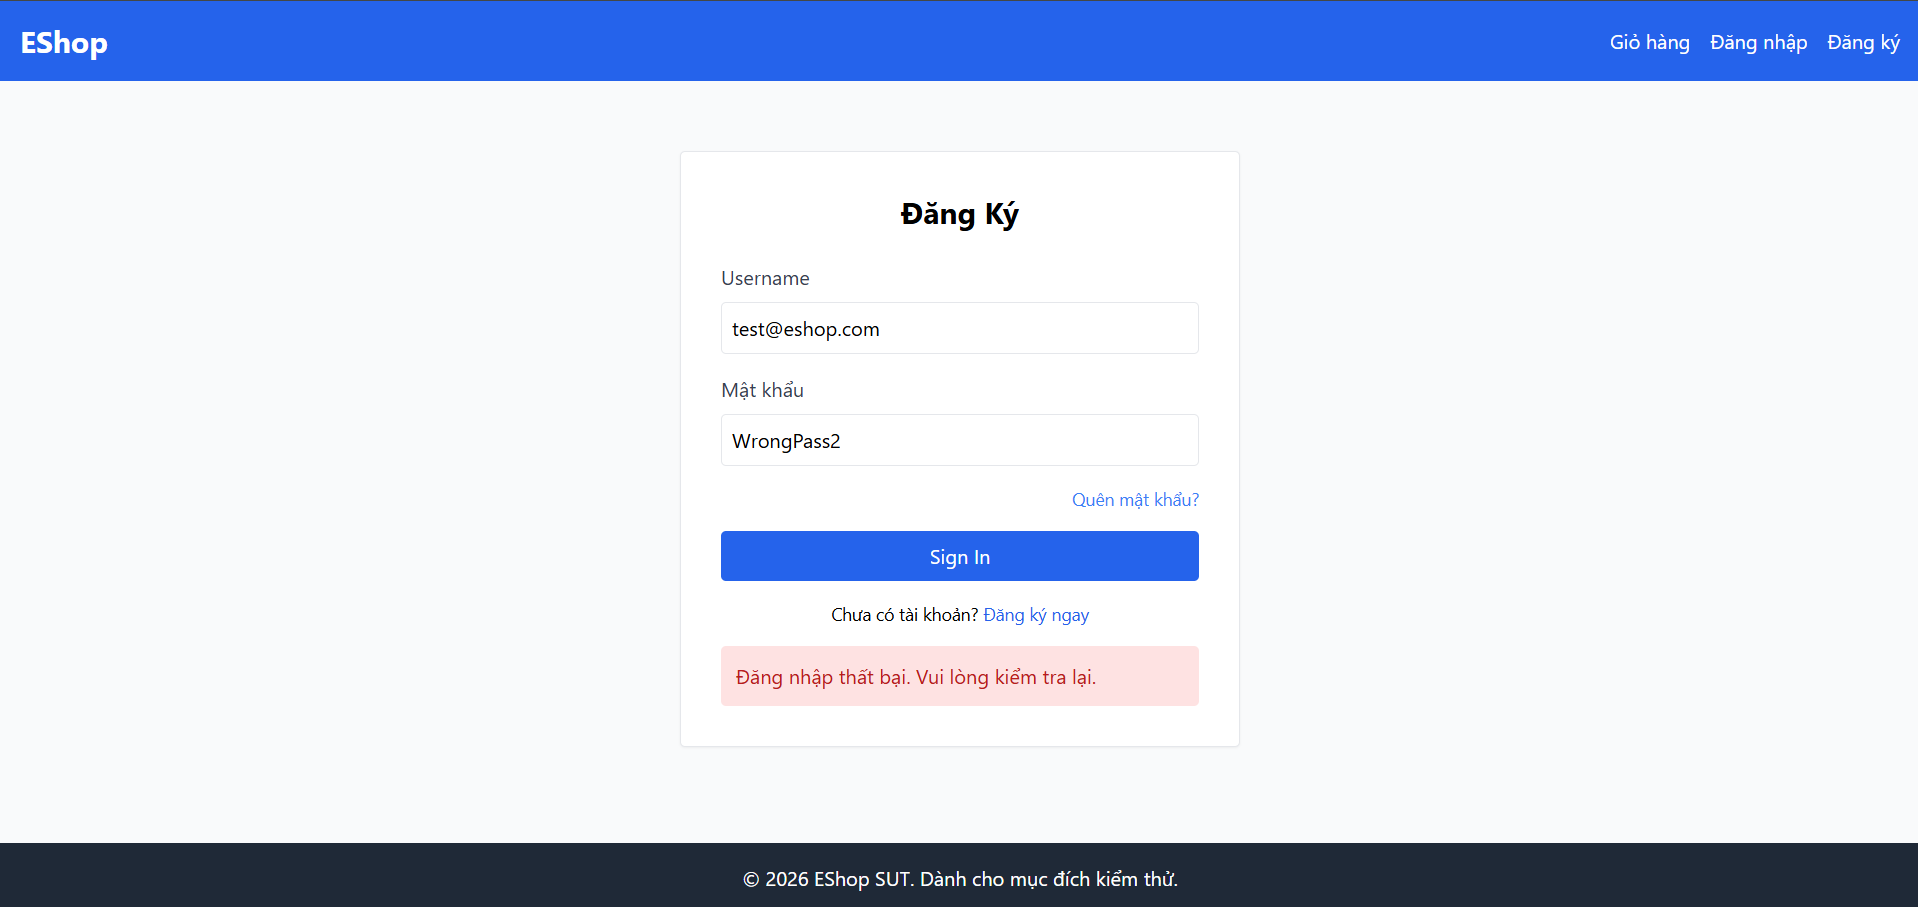
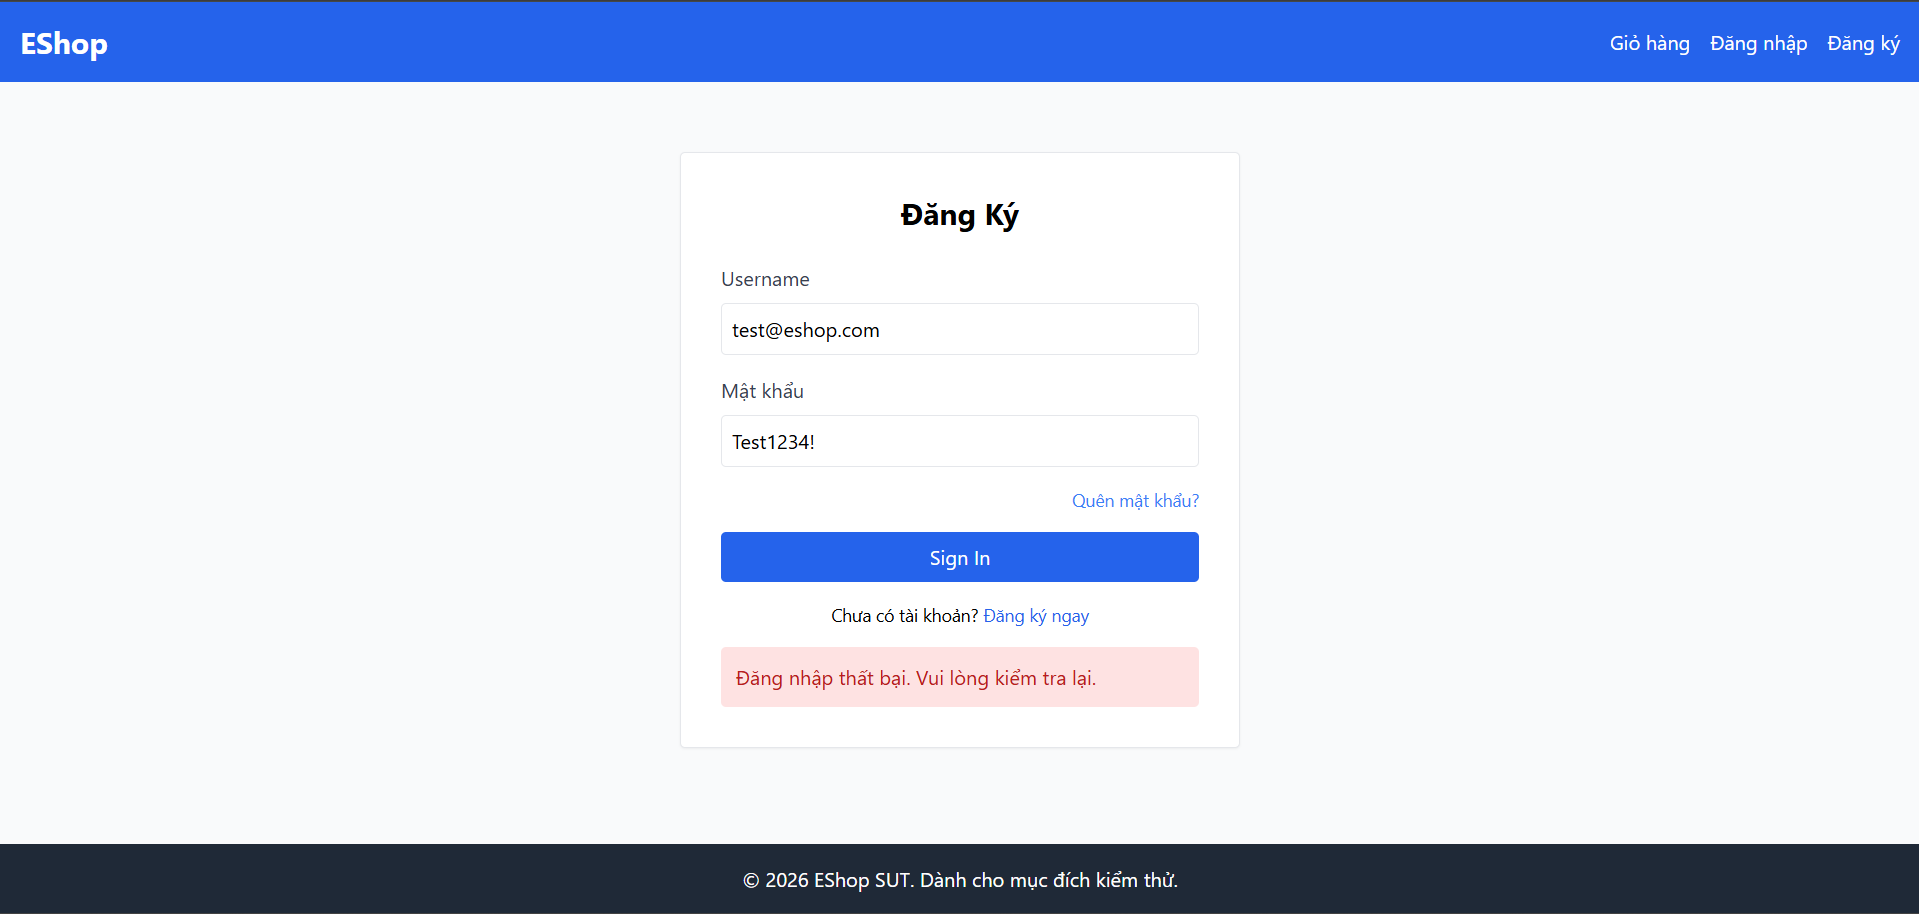
update: optimize fr-02 script test

diff --git a/reports/html_report/index.html b/reports/html_report/index.html
@@ -46,4 +46,4 @@ Error generating stack: `+e.message+`
     <div id='root'></div>
   </body>
 </html>
[2 lines of base64/hex data omitted]

diff --git a/tests/fr02_login.spec.ts b/tests/fr02_login.spec.ts
@@ -27,7 +27,6 @@ test.describe('FR-02: Đăng nhập & Khóa tài khoản (Refined Step-by-Step S
   const tc02 = loginTestData.find((tc) => tc.id === 'TC_FR-02_02');
   if (tc02) {
     test(`[${tc02.id}] ${tc02.name} (${tc02.category})`, async ({ page }) => {
-      // Tăng timeout cho test case chờ 30 giây thời gian phạt
       test.setTimeout(45000);
 
       // 1. Thực hiện sai 3 lần liên tiếp để kích hoạt khóa tài khoản
@@ -48,26 +47,25 @@ test.describe('FR-02: Đăng nhập & Khóa tài khoản (Refined Step-by-Step S
     });
   }
 
-  // TC_FR-02_03: Bỏ trống Email (Bug 1: Thiếu required trên Email)
+  // TC_FR-02_03: Bỏ trống Email
   const tc03 = loginTestData.find((tc) => tc.id === 'TC_FR-02_03');
   if (tc03) {
     test(`[${tc03.id}] ${tc03.name} (${tc03.category})`, async ({ page }) => {
       await loginPage.fillPassword(tc03.password);
       await loginPage.submit();
 
-      // Giữ màn hình 1.2s để video recording và trace ghi nhận rõ ràng tooltip HTML5
       await page.waitForTimeout(1200);
 
-      // Assertion nghiêm ngặt: Ô Email bắt buộc phải có validate HTML5 chặn submit (Bug 1)
+      // Assertion: Ô Email bắt buộc phải có validate HTML5 chặn submit
       const isValid = await loginPage.checkValidity('email');
       const validationMessage = await loginPage.getValidationMessage('email');
 
-      expect(isValid, 'Ô Email phải bị chặn không hợp lệ khi bỏ trống (Bug 1)').toBe(false);
+      expect(isValid, 'Ô Email phải bị chặn không hợp lệ khi bỏ trống').toBe(false);
       expect(validationMessage.length, 'Thông báo lỗi HTML5 phải hiển thị').toBeGreaterThan(0);
     });
   }
 
-  // TC_FR-02_04: Email sai định dạng (Bug 4: Thiếu type="email" trên ô Email)
+  // TC_FR-02_04: Email sai định dạng
   const tc04 = loginTestData.find((tc) => tc.id === 'TC_FR-02_04');
   if (tc04) {
     test(`[${tc04.id}] ${tc04.name} (${tc04.category})`, async ({ page }) => {
@@ -75,51 +73,49 @@ test.describe('FR-02: Đăng nhập & Khóa tài khoản (Refined Step-by-Step S
       await loginPage.fillPassword(tc04.password);
       await loginPage.submit();
 
-      // Giữ màn hình 1.2s để video recording ghi nhận rõ ràng
       await page.waitForTimeout(1200);
 
-      // Assertion nghiêm ngặt: Ô Email bắt buộc phải có type="email" chặn định dạng sai (Bug 4)
+      // Assertion: Ô Email bắt buộc phải có type="email" chặn định dạng sai
       const isValid = await loginPage.checkValidity('email');
-      expect(isValid, 'Ô Email phải bị chặn khi nhập sai định dạng không có @ (Bug 4)').toBe(false);
+      expect(isValid, 'Ô Email phải bị chặn khi nhập sai định dạng không có @').toBe(false);
     });
   }
 
-  // TC_FR-02_05: Bỏ trống Password (Bug 2: Thiếu required trên Mật khẩu)
+  // TC_FR-02_05: Bỏ trống Password
   const tc05 = loginTestData.find((tc) => tc.id === 'TC_FR-02_05');
   if (tc05) {
     test(`[${tc05.id}] ${tc05.name} (${tc05.category})`, async ({ page }) => {
       await loginPage.fillEmail(tc05.email);
       await loginPage.submit();
 
-      // Giữ màn hình 1.2s để video recording ghi nhận rõ ràng
       await page.waitForTimeout(1200);
 
-      // Assertion nghiêm ngặt: Ô Mật khẩu bắt buộc phải có validate HTML5 chặn submit (Bug 2)
+      // Assertion: Ô Mật khẩu bắt buộc phải có validate HTML5 chặn submit
       const isValid = await loginPage.checkValidity('password');
       const validationMessage = await loginPage.getValidationMessage('password');
 
-      expect(isValid, 'Ô Mật khẩu phải bị chặn khi bỏ trống (Bug 2)').toBe(false);
+      expect(isValid, 'Ô Mật khẩu phải bị chặn khi bỏ trống').toBe(false);
       expect(validationMessage.length, 'Thông báo lỗi HTML5 phải hiển thị').toBeGreaterThan(0);
     });
   }
 
-  // TC_FR-02_06: Email chưa đăng ký (Bug 5: Tiết lộ thông tin Email không tồn tại)
+  // TC_FR-02_06: Email chưa đăng ký
   const tc06 = loginTestData.find((tc) => tc.id === 'TC_FR-02_06');
   if (tc06) {
     test(`[${tc06.id}] ${tc06.name} (${tc06.category})`, async ({ page }) => {
       await loginPage.login(tc06.email, tc06.password);
       await page.waitForTimeout(1000);
 
-      // Assertion: Bắt buộc thông báo lỗi phải là thông báo chung bảo mật (Bug 5)
+      // Assertion: Thông báo lỗi phải hiển thị đúng khi email chưa đăng ký
       await expect(loginPage.alertMessage).toBeVisible({ timeout: 5000 });
       const alertText = await loginPage.getAlertText();
-      expect(alertText, 'Thông báo phải là lỗi bảo mật chung, không tiết lộ sự tồn tại của Email (Bug 5)').toBe(
-        'Đăng nhập thất bại, vui lòng kiểm tra lại'
+      expect(alertText, 'Thông báo lỗi phải hiển thị đúng khi email chưa đăng ký').toBe(
+        tc06.expected.message
       );
     });
   }
 
-  // TC_FR-02_07: Sai Password lần 3 kích hoạt khóa (Bug 3: Không khóa tài khoản)
+  // TC_FR-02_07: Sai Password lần 3 kích hoạt khóa
   const tc07 = loginTestData.find((tc) => tc.id === 'TC_FR-02_07');
   if (tc07) {
     test(`[${tc07.id}] ${tc07.name} (${tc07.category})`, async ({ page }) => {
@@ -136,31 +132,29 @@ test.describe('FR-02: Đăng nhập & Khóa tài khoản (Refined Step-by-Step S
       await loginPage.login(tc07.email, 'WrongPass3');
       await page.waitForTimeout(1000);
 
-      // Assertion nghiêm ngặt: Hệ thống BẮT BUỘC phải khóa tài khoản (Bug 3)
+      // Assertion: Hệ thống phải thông báo khóa tài khoản sau 3 lần sai liên tiếp
       await expect(loginPage.alertMessage).toBeVisible({ timeout: 5000 });
       const alertText = await loginPage.getAlertText();
-      expect(alertText, 'Hệ thống phải khóa tài khoản sau 3 lần sai liên tiếp (Bug 3)').toMatch(/tạm khóa|khóa|30s/i);
+      expect(alertText, 'Hệ thống phải thông báo khóa tài khoản sau 3 lần sai liên tiếp').toMatch(/tạm khóa|khóa|30s/i);
     });
   }
 
-  // TC_FR-02_08: Tài khoản đang khóa từ chối đăng nhập dù nhập đúng (Bug 3)
+  // TC_FR-02_08: Tài khoản đang khóa từ chối đăng nhập dù nhập đúng
   const tc08 = loginTestData.find((tc) => tc.id === 'TC_FR-02_08');
   if (tc08) {
     test(`[${tc08.id}] ${tc08.name} (${tc08.category})`, async ({ page }) => {
-      // 1. Thực hiện sai 3 lần liên tiếp để đưa vào trạng thái khóa
+      // 1. Thực hiện sai 3 lần liên tiếp để kích hoạt khóa
       for (let i = 1; i <= 3; i++) {
         await loginPage.login(tc08.email, `WrongPass_${i}`);
         await page.waitForTimeout(600);
       }
 
-      // 2. Ngay lập tức đăng nhập với thông tin CHÍNH XÁC trong khi còn thời gian khóa
+      // 2. Ngay lập tức đăng nhập với thông tin CHÍNH XÁC trong khi đang bị khóa
       await loginPage.login(tc08.email, tc08.password);
       await page.waitForTimeout(1000);
 
-      // Assertion nghiêm ngặt: Hệ thống BẮT BUỘC phải từ chối đăng nhập (Bug 3)
-      await expect(loginPage.alertMessage).toBeVisible({ timeout: 5000 });
-      const alertText = await loginPage.getAlertText();
-      expect(alertText, 'Tài khoản đang bị khóa phải từ chối đăng nhập dù nhập đúng (Bug 3)').toMatch(/tạm khóa|khóa/i);
+      // Assertion: Hệ thống phải từ chối đăng nhập (không được phép chuyển về trang chủ)
+      await expect(page, 'Tài khoản đang bị khóa không được phép đăng nhập vào trang chủ').not.toHaveURL(/localhost:5173\/?$/);
     });
   }
 
@@ -168,17 +162,20 @@ test.describe('FR-02: Đăng nhập & Khóa tài khoản (Refined Step-by-Step S
   const bva01 = loginTestData.find((tc) => tc.id === 'TC_FR-02_BVA_01');
   if (bva01) {
     test(`[${bva01.id}] ${bva01.name} (${bva01.category})`, async ({ page }) => {
-      // Thực hiện đúng 2 lần sai
+      // 1. Thực hiện đúng 2 lần sai
       await loginPage.login(bva01.email, 'WrongPass1');
       await page.waitForTimeout(600);
 
       await loginPage.login(bva01.email, 'WrongPass2');
       await page.waitForTimeout(800);
 
-      // Assertion: Chưa đạt ngưỡng n=3 nên chưa bị khóa
-      await expect(loginPage.alertMessage).toBeVisible({ timeout: 5000 });
-      const alertText = await loginPage.getAlertText();
-      expect(alertText, 'n = 2 lần sai chưa được kích hoạt khóa tài khoản').not.toMatch(/tạm khóa|khóa 30s/i);
+      // 2. Tiến hành đăng nhập với mật khẩu đúng
+      await loginPage.login(bva01.email, 'Test1234!');
+      await page.waitForTimeout(1000);
+
+      // Assertion: n = 2 lần sai chưa bị khóa -> Đăng nhập thành công vào trang chủ
+      await expect(page, 'Tại n = 2 lần sai chưa bị khóa, đăng nhập mật khẩu đúng phải thành công').toHaveURL(/localhost:5173\/?$/, { timeout: 5000 });
+      await expect(loginPage.userGreeting).toBeVisible({ timeout: 5000 });
     });
   }
 
@@ -186,16 +183,18 @@ test.describe('FR-02: Đăng nhập & Khóa tài khoản (Refined Step-by-Step S
   const bva02 = loginTestData.find((tc) => tc.id === 'TC_FR-02_BVA_02');
   if (bva02) {
     test(`[${bva02.id}] ${bva02.name} (${bva02.category})`, async ({ page }) => {
-      // Thực hiện đúng 3 lần sai
+      // 1. Thực hiện đúng 3 lần sai
       for (let i = 1; i <= 3; i++) {
         await loginPage.login(bva02.email, `WrongPass_${i}`);
         await page.waitForTimeout(600);
       }
 
-      // Assertion nghiêm ngặt: Đúng n=3 phải kích hoạt khóa (Bug 3)
-      await expect(loginPage.alertMessage).toBeVisible({ timeout: 5000 });
-      const alertText = await loginPage.getAlertText();
-      expect(alertText, 'Tại biên n = 3 lần sai phải kích hoạt khóa tài khoản (Bug 3)').toMatch(/tạm khóa|khóa/i);
+      // 2. Tiến hành đăng nhập với mật khẩu đúng ngay sau đó
+      await loginPage.login(bva02.email, 'Test1234!');
+      await page.waitForTimeout(1000);
+
+      // Assertion: Tại n = 3 lần sai tài khoản đã bị khóa -> Không được phép đăng nhập thành công
+      await expect(page, 'Tại biên n = 3 lần sai tài khoản phải bị khóa, từ chối đăng nhập').not.toHaveURL(/localhost:5173\/?$/);
     });
   }
 
@@ -203,16 +202,18 @@ test.describe('FR-02: Đăng nhập & Khóa tài khoản (Refined Step-by-Step S
   const bva03 = loginTestData.find((tc) => tc.id === 'TC_FR-02_BVA_03');
   if (bva03) {
     test(`[${bva03.id}] ${bva03.name} (${bva03.category})`, async ({ page }) => {
-      // Thực hiện 3 lần sai kích hoạt khóa + lần thứ 4
+      // 1. Thực hiện 4 lần sai
       for (let i = 1; i <= 4; i++) {
         await loginPage.login(bva03.email, `WrongPass_${i}`);
         await page.waitForTimeout(600);
       }
 
-      // Assertion nghiêm ngặt: Lần 4 vẫn phải ở trạng thái khóa (Bug 3)
-      await expect(loginPage.alertMessage).toBeVisible({ timeout: 5000 });
-      const alertText = await loginPage.getAlertText();
-      expect(alertText, 'Vượt biên n = 4 lần sai tài khoản vẫn phải bị khóa (Bug 3)').toMatch(/tạm khóa|khóa/i);
+      // 2. Tiến hành đăng nhập với mật khẩu đúng ngay sau đó
+      await loginPage.login(bva03.email, 'Test1234!');
+      await page.waitForTimeout(1000);
+
+      // Assertion: Vượt biên n = 4 lần sai tài khoản vẫn phải bị khóa -> Không được phép đăng nhập thành công
+      await expect(page, 'Vượt biên n = 4 lần sai tài khoản vẫn phải bị khóa, từ chối đăng nhập').not.toHaveURL(/localhost:5173\/?$/);
     });
   }
 
@@ -220,7 +221,6 @@ test.describe('FR-02: Đăng nhập & Khóa tài khoản (Refined Step-by-Step S
   const bva05 = loginTestData.find((tc) => tc.id === 'TC_FR-02_BVA_05');
   if (bva05) {
     test(`[${bva05.id}] ${bva05.name} (${bva05.category})`, async ({ page }) => {
-      // Tăng timeout cho test case chờ 30 giây thời gian phạt
       test.setTimeout(45000);
 
       // 1. Thực hiện sai 3 lần

diff --git a/tests/fr13_dashboard.spec.ts b/tests/fr13_dashboard.spec.ts
@@ -91,9 +91,8 @@ test.describe('FR-13: Admin Dashboard (Quản lý Thống kê & Doanh thu)', () 
       await adminPage.goToDashboard();
       const revenueText = await adminPage.getRevenueText();
 
-      // Assertion nghiêm ngặt: Tổng doanh thu BẮT BUỘC phải là 30.000.000 đ
-      // (SUT bị lỗi logic x2 doanh thu hiển thị 60.000.000 đ nên sẽ FAIL -> Bắt trúng Bug 13)
-      expect(revenueText, 'Tổng doanh thu phải tính đúng 30.000.000 đ cho 1 đơn delivered (Bug 13)').toMatch(/30[.,]?000[.,]?000/);
+      // Assertion: Tổng doanh thu phải là 30.000.000 đ
+      expect(revenueText, 'Tổng doanh thu phải tính đúng 30.000.000 đ cho 1 đơn delivered').toMatch(/30[.,]?000[.,]?000/);
     });
   }
 
@@ -242,11 +241,11 @@ test.describe('FR-13: Admin Dashboard (Quản lý Thống kê & Doanh thu)', () 
         return true;
       });
 
-      expect(isCardOverflowing, 'Thẻ Tổng doanh thu phải responsive, không được để chữ số tràn ra ngoài khung Card (Bug 14)').toBe(false);
+      expect(isCardOverflowing, 'Thẻ Tổng doanh thu phải responsive, không được để chữ số tràn ra ngoài khung Card').toBe(false);
     });
   }
 
-  // 12. TC_FR-13_BVA_06: Giới hạn hiển thị UI số lượng đơn hàng (N cực lớn 999.999.999.999.999) - Bắt Bug 15
+  // 12. TC_FR-13_BVA_06: Giới hạn hiển thị UI số lượng đơn hàng (N cực lớn 999.999.999.999.999)
   const bva06 = dashboardTestData.find((tc) => tc.id === 'TC_FR-13_BVA_06');
   if (bva06) {
     test(`[${bva06.id}] ${bva06.name} (${bva06.category})`, async ({ page }) => {
@@ -275,7 +274,6 @@ test.describe('FR-13: Admin Dashboard (Quản lý Thống kê & Doanh thu)', () 
       await page.waitForTimeout(600);
 
       // 3. Assertion: Kiểm tra tràn khung / responsive
-      // (SUT không responsive cho thẻ số lượng cực lớn -> Bắt trúng Bug 15)
       const isOrdersCardOverflowing = await page.evaluate(() => {
         const cards = Array.from(document.querySelectorAll('div, section')).filter((el) =>
           el.textContent?.includes('Tổng số đơn hàng')
@@ -296,7 +294,7 @@ test.describe('FR-13: Admin Dashboard (Quản lý Thống kê & Doanh thu)', () 
         return true;
       });
 
-      expect(isOrdersCardOverflowing, 'Thẻ Tổng số đơn hàng phải responsive khi số lượng cực lớn (Bug 15)').toBe(false);
+      expect(isOrdersCardOverflowing, 'Thẻ Tổng số đơn hàng phải responsive khi số lượng cực lớn').toBe(false);
     });
   }
 });

diff --git a/tests/pages/LoginPage.ts b/tests/pages/LoginPage.ts
@@ -26,7 +26,7 @@ export class LoginPage {
     this.loginButton = page.locator('button').filter({ hasText: /sign in|đăng nhập|login/i }).or(page.locator('button[type="submit"]')).first();
 
     // Khung hiển thị thông báo alert / toast
-    this.alertMessage = page.locator('.toast, .alert, [role="alert"], .error-message, .message, .text-danger, .swal2-html-container, .notification, .Toastify, .ant-message, div:has-text("thất bại"), div:has-text("khóa"), div:has-text("thành công")').first();
+    this.alertMessage = page.locator('.bg-red-100, .bg-red-50, .text-red-700, .text-red-500, [class*="red"], .alert, .error-message, [role="alert"]').filter({ hasText: /thất bại|khóa|lỗi|thành công/i }).first();
 
     this.userGreeting = page.locator('header, nav').getByText(/Chào, Test User/i).or(page.locator('header, nav').getByText(/Chào/i)).first();
     this.logoutButton = page.locator('header, nav').getByText(/^Thoát$/i).or(page.locator('button, a').filter({ hasText: /thoát|đăng xuất/i })).first();
@@ -98,9 +98,14 @@ export class LoginPage {
    * Get alert or error text displayed on UI
    */
   async getAlertText(): Promise<string> {
-    if (await this.alertMessage.isVisible()) {
-      return (await this.alertMessage.textContent())?.trim() || '';
-    }
-    return '';
+    return await this.page.evaluate(() => {
+      const redBox = document.querySelector('.bg-red-100, .bg-red-50, .text-red-700, .text-red-500, [class*="red"], .alert, .error-message, [role="alert"]');
+      if (redBox) {
+        return redBox.textContent?.trim() || '';
+      }
+      const els = Array.from(document.querySelectorAll('*'));
+      const leaf = els.filter((el) => el.children.length === 0 && (el.textContent?.includes('thất bại') || el.textContent?.includes('khóa')));
+      return leaf.length > 0 ? leaf[leaf.length - 1].textContent?.trim() || '' : '';
+    });
   }
 }

diff --git a/tests/fr08_checkout.spec.ts b/tests/fr08_checkout.spec.ts
@@ -67,7 +67,7 @@ test.describe('FR-08: Thanh toán & Quản lý Giỏ hàng (Exact EShop UI Flow)
       // Assertion nghiêm ngặt: Giỏ hàng BẮT BUỘC phải tự động làm rỗng sau khi thanh toán
       // (SUT giỏ hàng KHÔNG tự xóa sản phẩm cũ nên sẽ FAIL -> Bắt trúng Bug 6)
       const isCartCleaned = await checkoutPage.isCartEmpty();
-      expect(isCartCleaned, 'Giỏ hàng phải tự động rỗng sau khi thanh toán thành công (Bug 6)').toBe(true);
+      expect(isCartCleaned, 'Giỏ hàng phải tự động rỗng sau khi thanh toán thành công').toBe(true);
     });
   }
 

diff --git a/playwright.config.ts b/playwright.config.ts
@@ -22,9 +22,9 @@ export default defineConfig({
   /* Chạy 1 worker tại 1 thời điểm */
   workers: 1,
 
-  /* Reporter config - output to reports/html_report according to HW04 specs */
+  /* Reporter config - dynamic output folder with fallback to reports/html_report */
   reporter: [
-    ['html', { outputFolder: 'reports/html_report', open: 'never' }],
+    ['html', { outputFolder: process.env.PLAYWRIGHT_HTML_REPORT || 'reports/html_report', open: 'never' }],
     ['list'],
   ],
 

diff --git a/Bug_Report.md b/Bug_Report.md
@@ -11,7 +11,7 @@
 
 ### 1. Bug 1: Hệ thống vẫn khóa tài khoản sau hơn 30s bị khóa
 
-- **Mô tả:** Theo đặc tả nghiệp vụ (FR-02), khi người dùng nhập sai mật khẩu 3 lần liên tiếp, tài khoản phải bị tạm khóa trong 30 giây và từ chối mọi yêu cầu đăng nhập. Tuy nhiên trên SUT, sau khi nhập sai 3 lần và chờ hơn 30 giây, người dùng tiếp tục nhập mật khẩu đúng thì hệ thống vẫn cho phép đăng nhập thành công vào trang chủ ngay lập tức.
+- **Mô tả:** Theo đặc tả nghiệp vụ (FR-02), khi người dùng nhập sai mật khẩu 3 lần liên tiếp, tài khoản phải bị tạm khóa trong 30 giây và từ chối mọi yêu cầu đăng nhập. Tuy nhiên trên SUT, sau khi nhập sai 3 lần và chờ hơn 30 giây, người dùng tiếp tục nhập mật khẩu đúng thì hệ thống vẫn không cho phép đăng nhập.
 - **Chức năng ảnh hưởng:** FR-02 (Đăng nhập & Khóa tài khoản)
 - **Test Case phát hiện:** `TC_FR-02_02`
 - **GitHub Issue:** [Link Issue #1](https://github.com/nguyenhieuthuan3105/HW04-Automation_Testing/issues/1)
@@ -53,11 +53,11 @@
 
 ---
 
-### 5. Bug 5: Hệ thống khóa đăng nhập dù người dùng mới chỉ nhập sai 2 lần
+### 5. Bug 5: Hệ thống vẫn khóa tài khoản sau 30s bị khóa
 
-- **Mô tả:** Sau khi thực hiện nhập sai 2 lần liên tiếp, tài khoản bị khóa. Tuy nhiên trong đặc tả lẽ ra phải sau 3 lần mới bị khóa
-- **Chức năng ảnh hưởng:** FR-02 (Đăng nhập & Bảo mật)
-- **Test Case phát hiện:** `TC_FR-02_BVA_01`
+- **Mô tả:** Theo đặc tả nghiệp vụ (FR-02), khi người dùng nhập sai mật khẩu 3 lần liên tiếp, tài khoản phải bị tạm khóa trong 30 giây và từ chối mọi yêu cầu đăng nhập. Tuy nhiên trên SUT, sau khi nhập sai 3 lần và chờ đúng 30 giây, người dùng tiếp tục nhập mật khẩu đúng thì hệ thống không cho phép đăng nhập vào tài khoản.
+- **Chức năng ảnh hưởng:** FR-02 (Đăng nhập & Khóa tài khoản)
+- **Test Case phát hiện:** `TC_FR-02_BVA_05`
 - **GitHub Issue:** [Link Issue #5](https://github.com/nguyenhieuthuan3105/HW04-Automation_Testing/issues/5)
 - **Ảnh minh chứng:**
   ![Bug 5](https://github.com/nguyenhieuthuan3105/HW04-Automation_Testing/issues/5)
